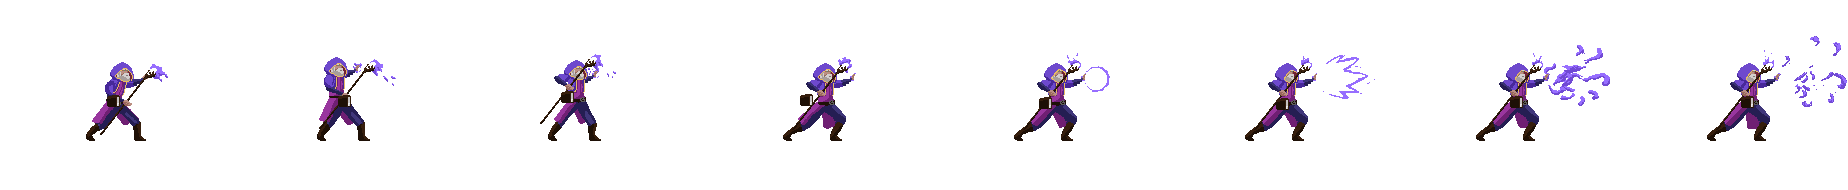
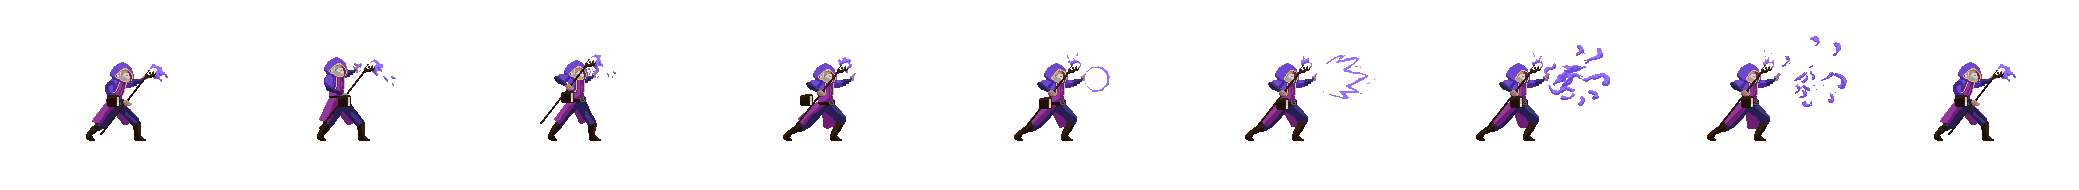
animation callbacks

diff --git a/game_2/game.html b/game_2/game.html
@@ -134,8 +134,9 @@
 
 
         function startTutorial() {
-            drawables.player = new PlayerCharacter;
             window.requestAnimationFrame(gameWindow.draw);
+            var playerCharacter = new PlayerCharacter();
+            playerCharacter.attack();
         }
 
         function startPractice() {
@@ -186,13 +187,45 @@
             this.frameSize = {x:231, y:190}
             this.playerImage = document.getElementById("playerIdleImage");
             this.playerAttackImage = document.getElementById("playerAttackImage");
+            drawables.player = new Animation(this.playerImage, 100, 100, this.frameSize, {x:400, y:400}, Infinity, "player");
 
+            this.attack = function() {
+                animation = getAnimation(this.playerImage, 100, 100, this.frameSize, {x:400, y:400}, Infinity, "player");
+                drawables.player = new Animation(this.playerAttackImage, 100, 100, this.frameSize, {x:400, y:400}, 1, "player", animation);
+            }
+        }
+
+        function getAnimation(image, x, y, frameSize, size, cycles, key, callBack) {
+            return function() {
+                drawables[key] = new Animation(image, x, y, frameSize, size, cycles, key, callBack);
+            };
+        }
+
+        function Animation(image, x, y, frameSize, size, cycles, key, callBack) {
+            this.image = image;
+            this.x = x;
+            this.y = y;
+            this.frameSize = frameSize;
+            this.size = size;
+            this.animationFrame = 0;
+            this.cycles = cycles;
+            this.currentCycle = 0;
+            this.key = key;
+            this.callBack = callBack;
+        
             this.draw = function() {
-                //drawImage(image, dx, dy, x, y, xSize, ySize)
-                gameWindow.context1.drawImage(this.playerAttackImage, this.frameSize.x * Math.floor(this.animationFrame / 6), 0, this.frameSize.x, this.frameSize.y, 100, 100, 400, 400);
+                //drawImage(image, dx, dy, dxWidth, dyHeight, x, y, xWidth, yHeight)
+                gameWindow.context1.drawImage(this.image, this.frameSize.x * Math.floor(this.animationFrame / 6), 0, this.frameSize.x, this.frameSize.y, this.x, this.y, this.size.x, this.size.y);
                 this.animationFrame++;
-                if (this.animationFrame > this.playerAttackImage.width / this.frameSize.x * 6 - 1) {
+                if (this.animationFrame > this.image.width / this.frameSize.x * 6 - 1) {
                     this.animationFrame = 0;
+                    this.currentCycle++;
+                }
+                if (this.currentCycle >= this.cycles) {
+                    delete drawables[key];
+                    if (this.callBack != undefined) {
+                        this.callBack();
+                    }
                 }
             }
         }
